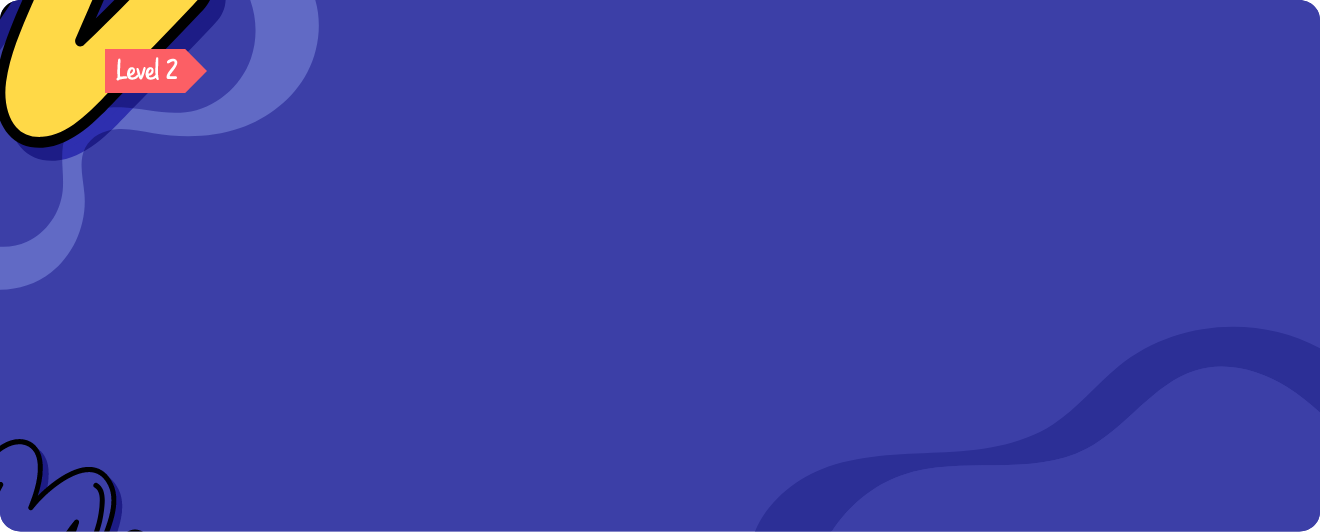
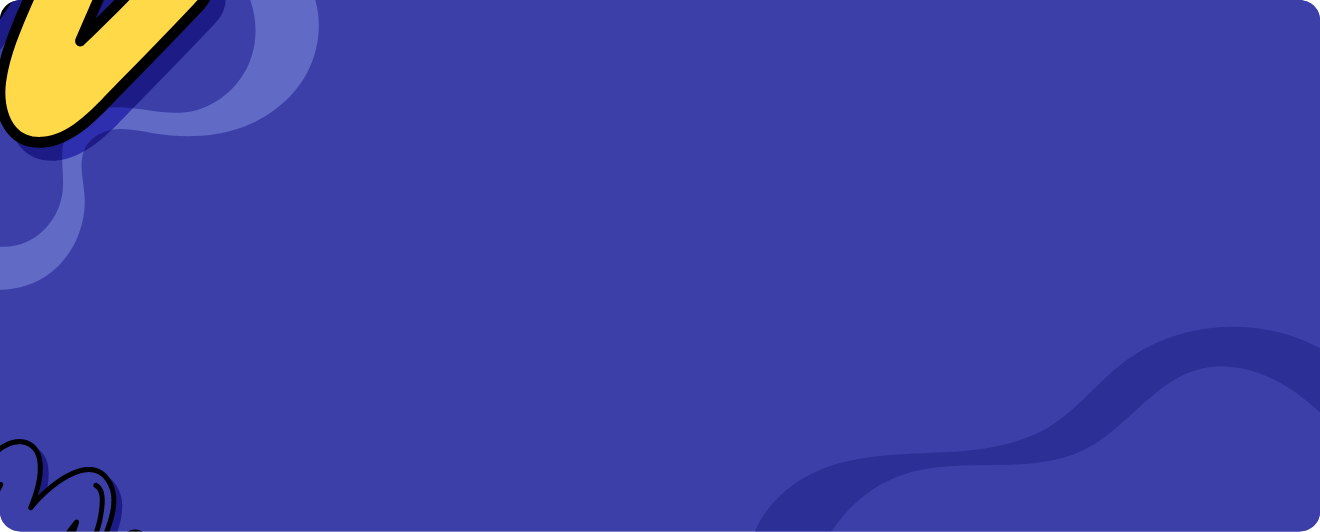
Ajustes portadas

Changed region(s): [[0.0621, 0.0902, 0.1553, 0.1805]]

diff --git a/src/config/global.js b/src/config/global.js
@@ -9,11 +9,11 @@ export default {
     imagenesDecorativasBanner: [
       {
         clases: ['banner-principal-decorativo-1', 'd-none', 'd-lg-block'],
-        imagen: require('@/assets/curso/portada/banner-principal-decorativo-1.svg'),
+        imagen: require('@/assets/curso/temas/flag.svg'),
       },
       {
         clases: ['banner-principal-decorativo-2'],
-        imagen: require('@/assets/curso/portada/banner-principal-decorativo-2.svg'),
+        imagen: require('@/assets/curso/portada/forms.svg'),
       },
     ],
   },
@@ -34,14 +34,26 @@ export default {
         nombreRuta: 'tema1',
         icono: 'far fa-file-alt',
         numero: '1',
-        titulo: 'Titulo de primer nivel',
+        titulo: '<em>Possessives - Whose is this?</em>',
         desarrolloContenidos: true,
         subMenu: [
           {
             icono: 'far fa-file-alt',
             numero: '1.1',
-            titulo: 'Titulo de segundo nivel',
+            titulo: '<em>Possessive adjectives</em>',
             hash: 't_1_1',
+          },
+          {
+            icono: 'far fa-file-alt',
+            numero: '1.2',
+            titulo: '<em>Possessive pronouns</em>',
+            hash: 't_1_2',
+          },
+          {
+            icono: 'far fa-file-alt',
+            numero: '1.3',
+            titulo: '<em>Saxon genitive</em>',
+            hash: 't_1_3',
           },
         ],
       },
@@ -50,35 +62,121 @@ export default {
         nombreRuta: 'tema2',
         icono: 'far fa-file-alt',
         numero: '2',
-        titulo: 'Titulo de primer nivel',
+        titulo: '<em>Present continuous and verbs ending in -ing.</em>',
         desarrolloContenidos: true,
+        subMenu: [
+          {
+            icono: 'far fa-file-alt',
+            numero: '2.1',
+            titulo: '<em>When is the present continuous used?</em>',
+            hash: 't_2_1',
+          },
+          {
+            icono: 'far fa-file-alt',
+            numero: '2.2',
+            titulo: '<em>-ing spelling rules</em>',
+            hash: 't_2_2',
+          },
+          {
+            icono: 'far fa-file-alt',
+            numero: '2.3',
+            titulo: '<em>Structures of the present continuous</em>',
+            hash: 't_2_3',
+          },
+          {
+            icono: 'far fa-file-alt',
+            numero: '2.4',
+            titulo: '<em>Stative verbs</em>',
+            hash: 't_2_4',
+          },
+        ],
       },
       {
         nombreRuta: 'tema3',
         icono: 'far fa-file-alt',
         numero: '3',
-        titulo: 'Titulo de primer nivel',
+        titulo: '<em>Prepositions of time and applications of "when"</em>',
         desarrolloContenidos: true,
+        subMenu: [
+          {
+            icono: 'far fa-file-alt',
+            numero: '3.1',
+            titulo: '<em>When to use at, on, in?</em>',
+            hash: 't_3_1',
+          },
+          {
+            icono: 'far fa-file-alt',
+            numero: '3.2',
+            titulo: '<em>Other prepositions of time</em>',
+            hash: 't_3_2',
+          },
+          {
+            icono: 'far fa-file-alt',
+            numero: '3.3',
+            titulo: '<em>When to use “when”?</em>',
+            hash: 't_3_3',
+          },
+        ],
       },
       {
         nombreRuta: 'tema4',
         icono: 'far fa-file-alt',
         numero: '4',
-        titulo: 'Titulo de primer nivel',
+        titulo: 'When things happen',
         desarrolloContenidos: true,
+        subMenu: [
+          {
+            icono: 'far fa-file-alt',
+            numero: '4.1',
+            titulo: '<em>Days of the week</em>',
+            hash: 't_4_1',
+          },
+          {
+            icono: 'far fa-file-alt',
+            numero: '4.2',
+            titulo: '<em>Dates</em>',
+            hash: 't_4_2',
+          },
+          {
+            icono: 'far fa-file-alt',
+            numero: '4.3',
+            titulo: '<em>Expresiones de tiempo</em>',
+            hash: 't_4_3',
+          },
+        ],
       },
       {
         nombreRuta: 'tema5',
         icono: 'far fa-file-alt',
         numero: '5',
-        titulo: 'Titulo de primer nivel',
+        titulo: 'This is my family',
         desarrolloContenidos: true,
+        subMenu: [
+          {
+            icono: 'far fa-file-alt',
+            numero: '5.1',
+            titulo: '<em>Miembros de la familia inmediata</em>',
+            hash: 't_5_1',
+          },
+          {
+            icono: 'far fa-file-alt',
+            numero: '5.2',
+            titulo: '<em>Miembros de la familia política</em>',
+            hash: 't_5_2',
+          },
+          {
+            icono: 'far fa-file-alt',
+            numero: '5.3',
+            titulo: '<em>Particularidades de los plurales</em>',
+            hash: 't_5_3',
+          },
+        ],
       },
       {
         nombreRuta: 'tema6',
         icono: 'far fa-file-alt',
         numero: '6',
-        titulo: 'Titulo de primer nivel',
+        titulo: 'Pasatiempos y hobbies',
         desarrolloContenidos: true,
       },
     ],
@@ -89,12 +187,12 @@ export default {
         nombreRuta: 'sintesis',
         desarrolloContenidos: true,
       },
-      {
-        nombreRuta: 'actividad',
-        icono: 'far fa-question-circle',
-        titulo: 'Actividad didáctica',
-        desarrolloContenidos: true,
-      },
+      // {
+      //   nombreRuta: 'actividad',
+      //   icono: 'far fa-question-circle',
+      //   titulo: 'Actividad didáctica',
+      //   desarrolloContenidos: true,
+      // },
       {
         nombreRuta: 'glosario',
         icono: 'fas fa-sort-alpha-down',

diff --git a/src/styles/_custom.sass b/src/styles/_custom.sass
@@ -1,22 +1,22 @@
 .banner-principal-decorativo
   &-1
-    animation: float1 3.5s ease-in-out infinite alternate
+    // animation: float1 3.5s ease-in-out infinite alternate
     position: absolute
-    top: 40%
-    right: 50%
+    top: 13%
+    left: -115%
   &-2
-    animation: float1 2.8s ease-in-out infinite alternate
+    animation: scale 7s ease-in-out infinite alternate
     position: absolute
-    top: 51%
-    right: 30%
+    top: 15%
+    left: 5%
 
 
-@keyframes float1
+@keyframes scale
   0%
-    transform: translateY(20px)
+    transform: scale(1.1)
 
   100%
-    transform: translateY(0px)
+    transform: scale(1.2)
 
 .table-purple
   th
@@ -50,3 +50,6 @@
 span.text-red
   color: red !important
   font-weight: bold
+.header__componente-formativo
+  span.r-4
+    color: $color-sistema-texto !important
